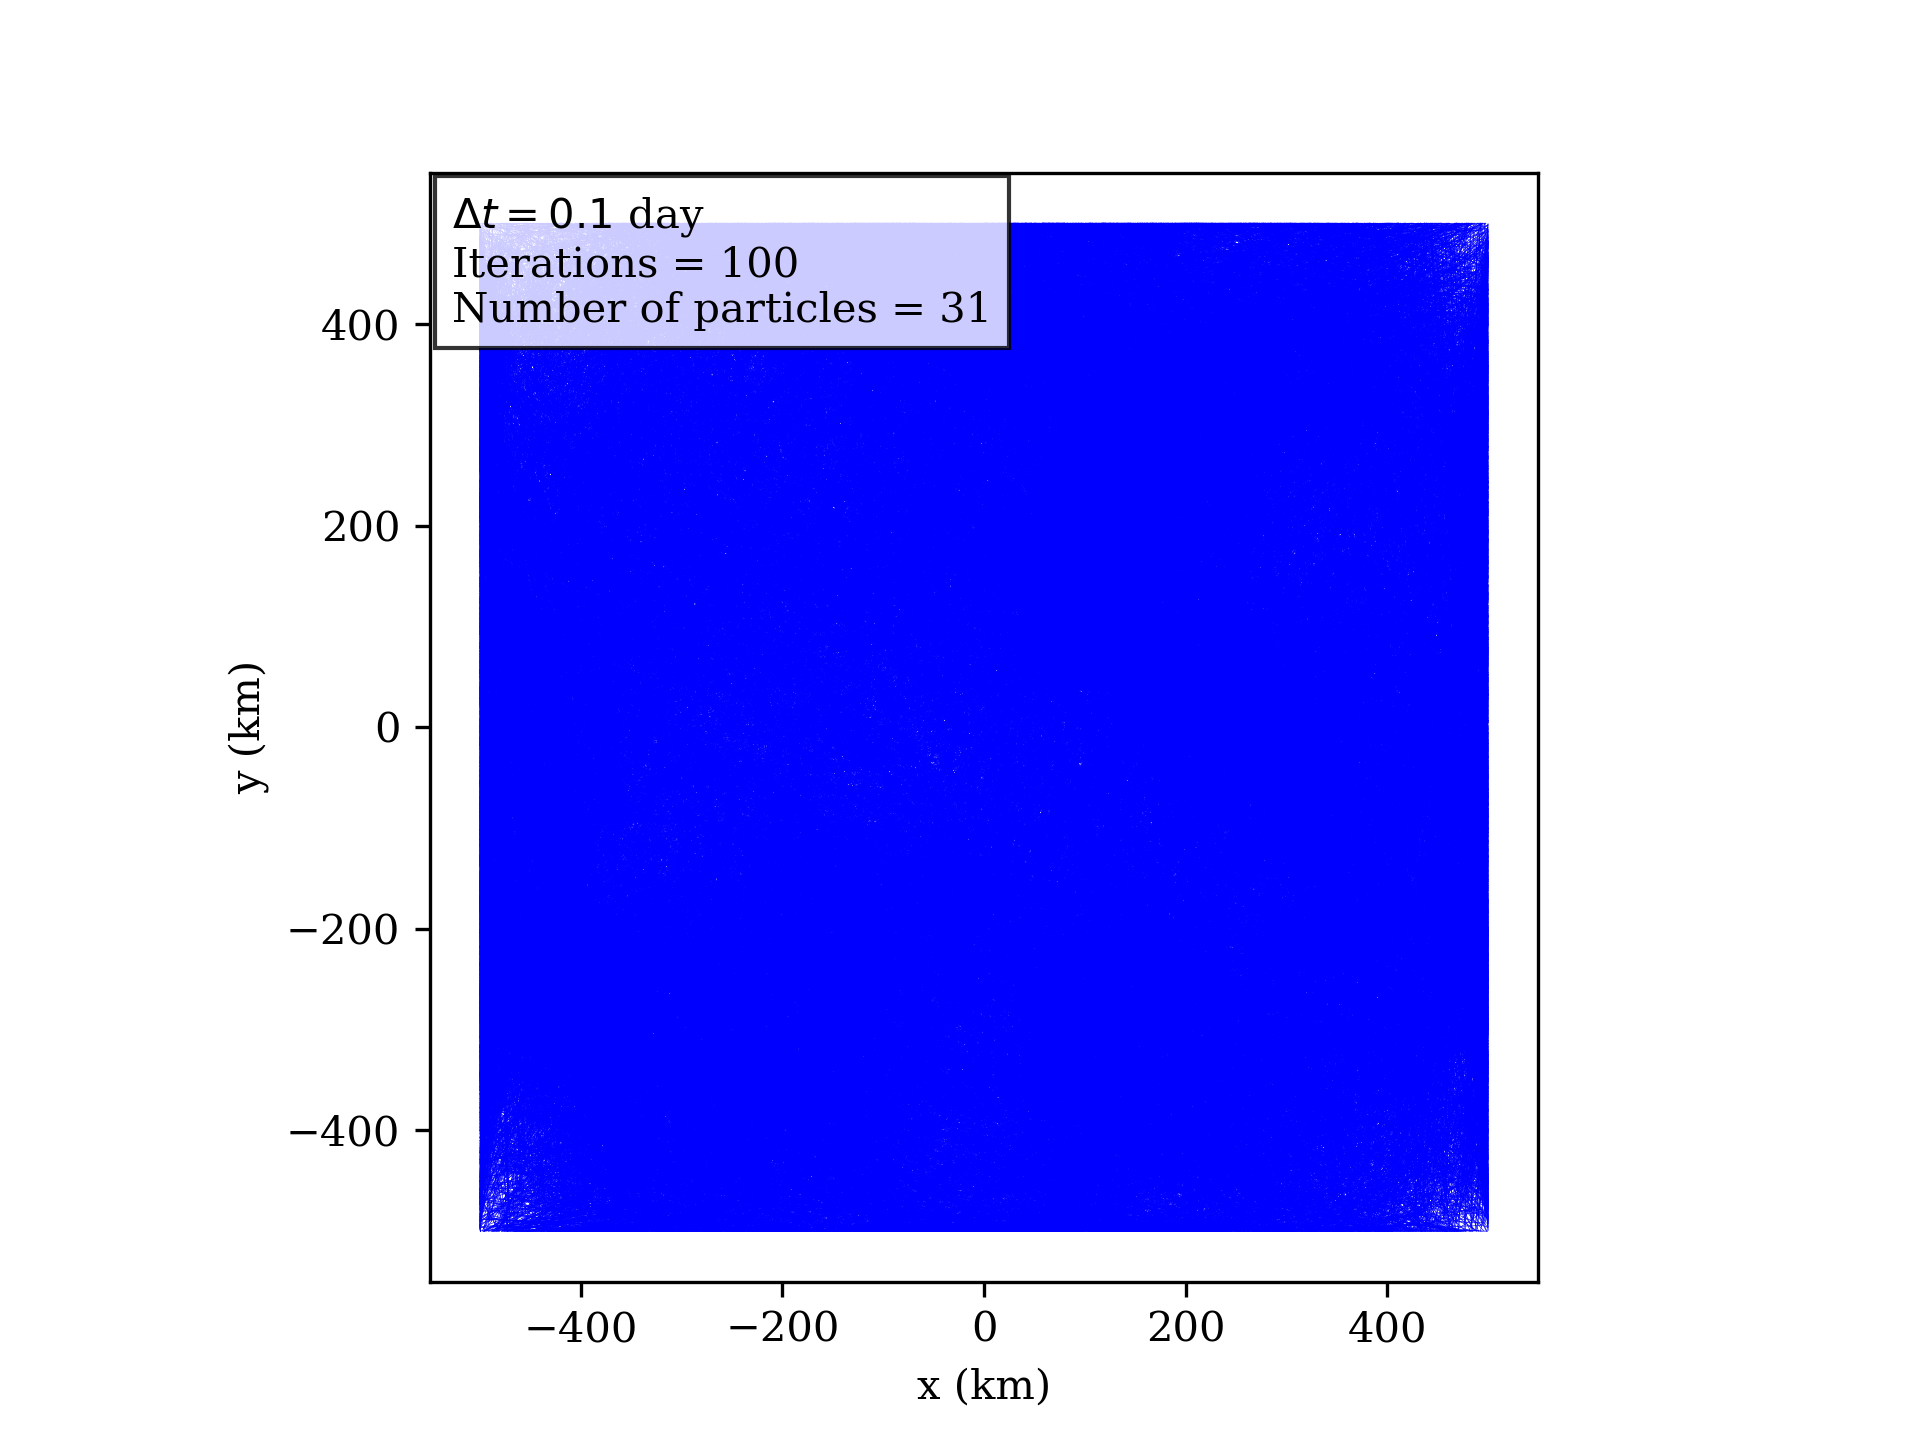
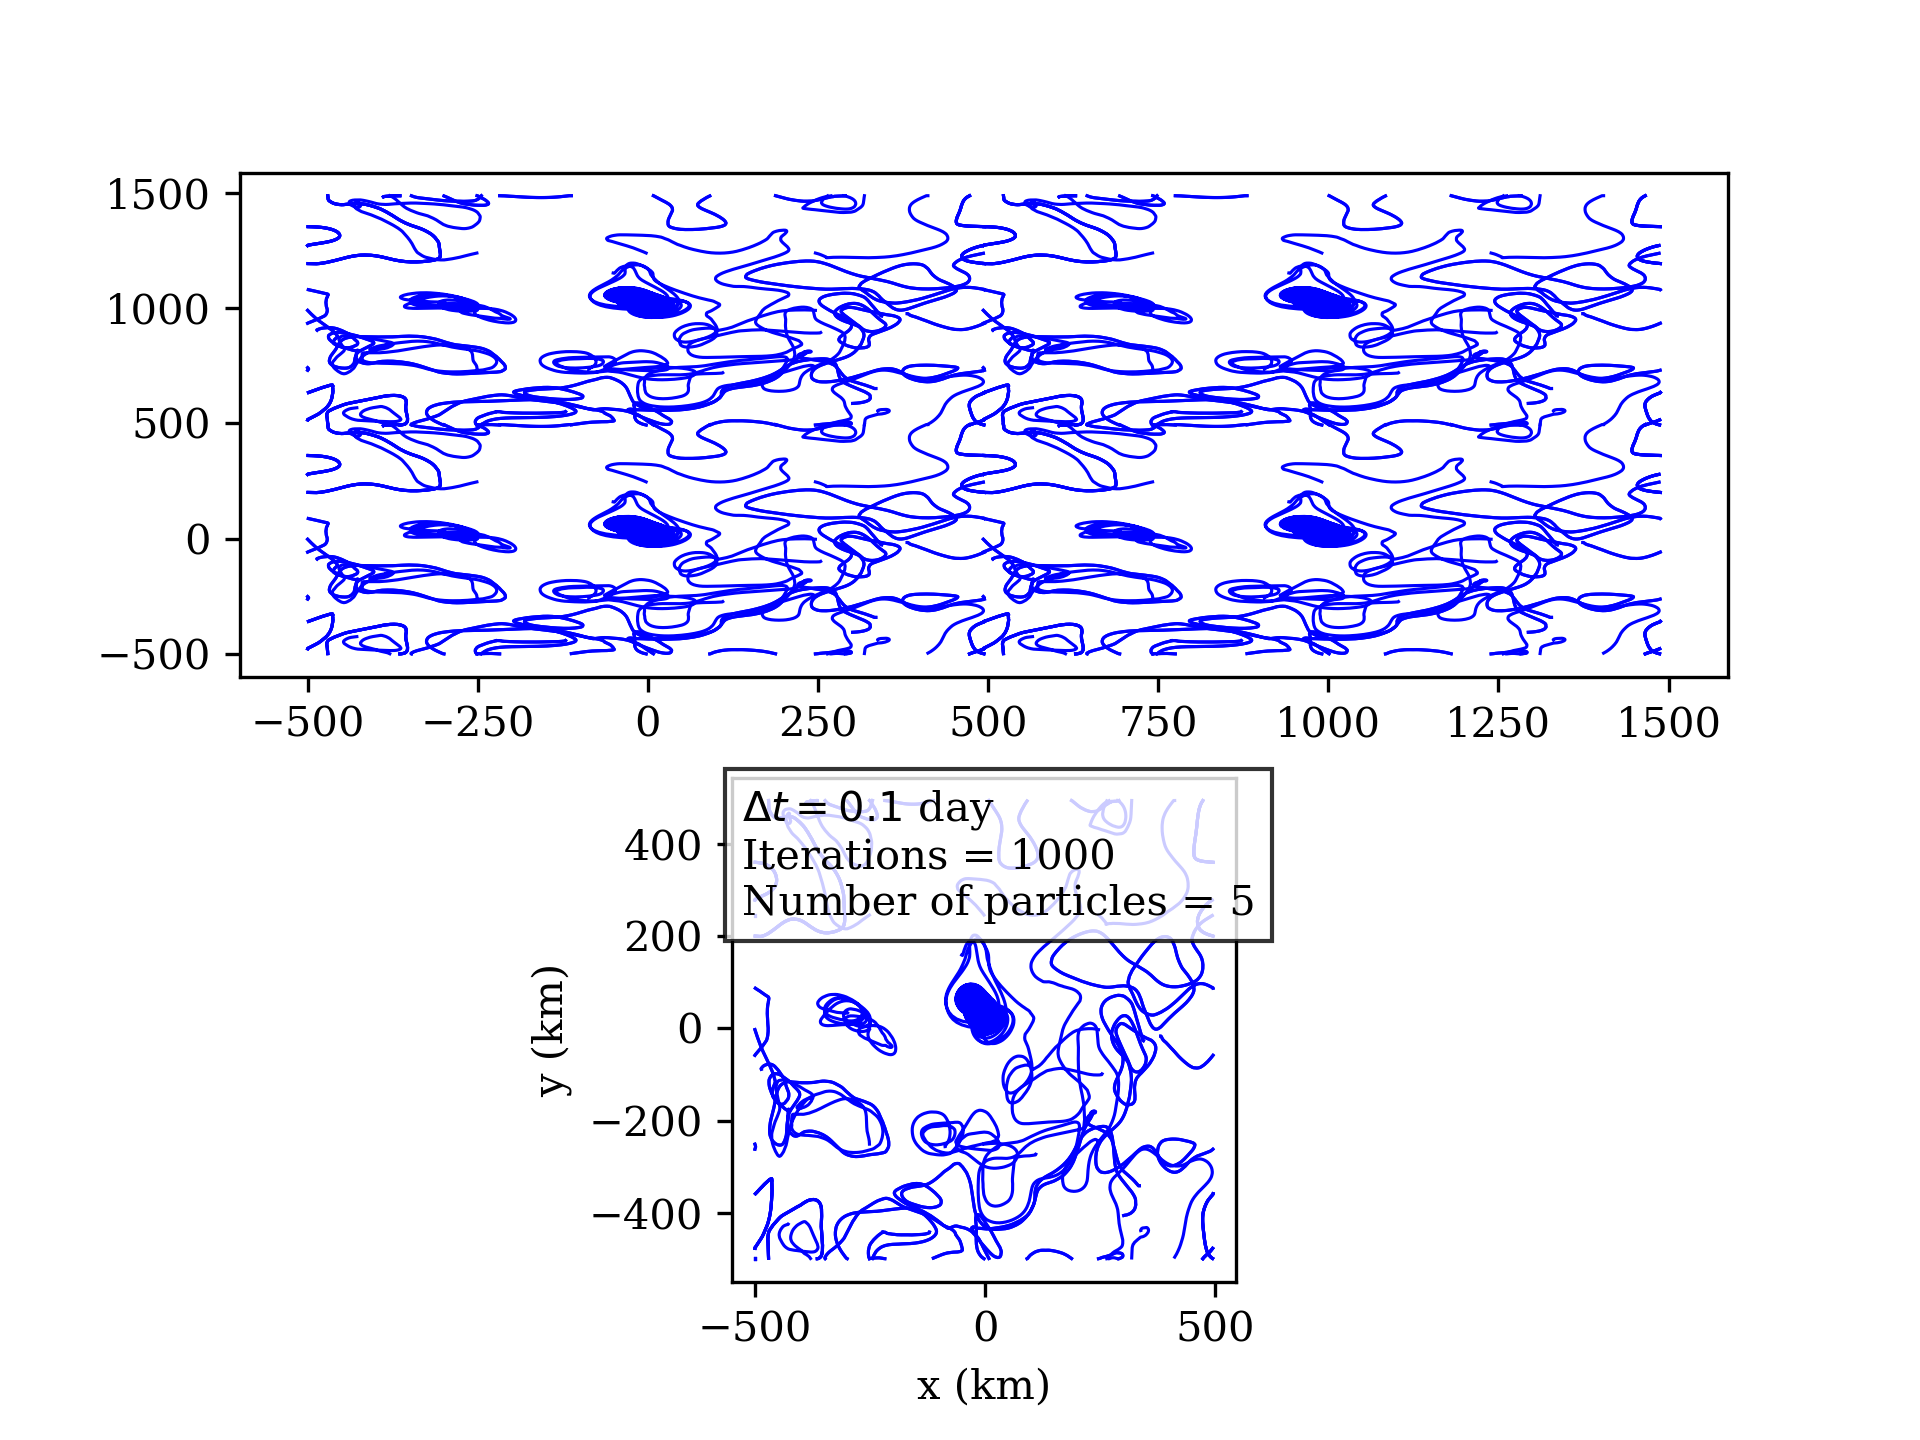
checkin

diff --git a/numerics/concentration.py b/numerics/concentration.py
@@ -11,8 +11,11 @@ import time
 from matplotlib.animation import FuncAnimation
 from propagation_with_potential_phi import solve_potential_from_material_derivative
 
+plt.rcParams['font.family'] = 'sans-serif'
+plt.rcParams['font.sans-serif'] = ['cmss10']
+plt.rcParams['axes.unicode_minus'] = False
 
-ITERS = 1000
+ITERS = 10000
 DT = 0.1
 ONLY_EPS = False
 METHOD = "linear"
@@ -25,13 +28,13 @@ t0 = 0.0
 SEED = np.random.randint(1, 10001)
 
 SCALE_FACTOR = 1
-GAMMA = 0.1
+GAMMA = 0.3
 
 SHOW_ONLY_CLUSTER = False
 CLUSTER_THRESHOLD = 2.0
 
 SAVE_GIF = False
-SAVE_MASS_PLOT = False
+SAVE_MASS_PLOT = True
 
 
 start = time.time()
@@ -43,7 +46,7 @@ phis = pstoch.vector_solve_stochastic_phi(
     days=int(ITERS * DT),
     size=(200, 200),
     dt=DT,
-    strength=0
+    strength=0.01
 )
 
 print("PHI time:", time.time() - start)
@@ -53,14 +56,15 @@ start = time.time()
 for j in range(ITERS + 1):
 
     if j == 0:
-        rX, rY, rx, ry, romega, rA_base, rdx, rdy, rq, rK, rL = invf.init_rossby()
+        rX, rY, rx, ry, romega, rA_base, rdx, rdy, rq, rK, rL = invf.init_rossby(intended_factor=3)
 
     phi_now = phis[j]
 
     X, Y, exes, whys, psi_real, u, v, q, A_mag, A, omega, phi, dX, dY, kay, ell = invf.generate_rossby_field_2(
         rX, rY, rx, ry, rq, romega, rA_base, rdx, rdy, rK, rL,
         t=j * DT,
-        given_phi=phi_now.astype(np.float64)
+        given_phi=phi_now.astype(np.float64),
+        emb=True
     )
 
     if j == 0:
@@ -81,22 +85,21 @@ for j in range(ITERS + 1):
             dy=dY,
             K=kay,
             L=ell,
-            Rd=100
+            Rd=100,
+            give_hat=True,
+            shift=True
         )
 
-        u_p = np.gradient(pot, dX, axis=1)
-        v_p = np.gradient(pot, dY, axis=0)
-
-        u = invf.debiggen(u, 3)
-        v = invf.debiggen(v, 3)
+        u_p_hat, v_p_hat = invf.embiggen(1j*kay*pot, 3), invf.embiggen(1j*ell*pot, 3)
+        # u_p = spn.zoom(u_p, 3.0, order=1, mode="grid-wrap")
+        # v_p = spn.zoom(v_p, 3.0, order=1, mode="grid-wrap")
+        u_p, v_p = np.fft.fftshift(np.fft.ifft2(u_p_hat)), np.fft.fftshift(np.fft.ifft2(v_p_hat))
         u = GAMMA * u_p + (1 - GAMMA) * u
         v = GAMMA * v_p + (1 - GAMMA) * v
-        # u = invf.embiggen(u, 3)
-        # v = invf.embiggen(v, 3)
 
     if u_arr is None:
-        u_arr = np.empty((ITERS + 1, u.shape[0], u.shape[1]))
-        v_arr = np.empty((ITERS + 1, v.shape[0], v.shape[1]))
+        u_arr = np.memmap("u_arr_mem.dat", mode="w+", dtype="float64", shape=(ITERS + 1, u.shape[0], u.shape[1]))
+        v_arr = np.memmap("v_arr_mem.dat", mode="w+", dtype="float64", shape=(ITERS + 1, v.shape[0], v.shape[1]))
 
     u_arr[j] = u
     v_arr[j] = v
@@ -138,7 +141,7 @@ elif DISTRIBUTE == "linspace":
 def interpolatify_u(idx):
     return spi.RegularGridInterpolator(
         (whys, exes),
-        spn.zoom(u[idx], 3.0, order=1, mode="grid-wrap"),
+        u_arr[idx],
         METHOD
     )
 
@@ -146,7 +149,7 @@ def interpolatify_u(idx):
 def interpolatify_v(idx):
     return spi.RegularGridInterpolator(
         (whys, exes),
-        spn.zoom(v[idx], 3.0, order=1, mode="grid-wrap"),
+        v_arr[idx],
         METHOD
     )
 
@@ -273,52 +276,54 @@ print("Final cluster particle fraction =", cluster_particle_fraction[-1])
 print("Final mean cluster C =", mean_cluster_C_hist[-1])
 print("Final max cluster C =", max_cluster_C_hist[-1])
 
+try:
+    if SAVE_MASS_PLOT:
+        fig_mass, ax_mass = plt.subplots(figsize=(6, 4))
 
-if SAVE_MASS_PLOT:
-    fig_mass, ax_mass = plt.subplots(figsize=(6, 4))
+        ax_mass.plot(time_hist, cluster_mass, label="Cluster mass")
+        ax_mass.plot(
+            time_hist,
+            cluster_particle_fraction,
+            label="Particle fraction",
+            linestyle="--"
+        )
 
-    ax_mass.plot(time_hist, cluster_mass, label="Cluster mass")
-    ax_mass.plot(
-        time_hist,
-        cluster_particle_fraction,
-        label="Particle fraction",
-        linestyle="--"
-    )
+        ax_mass.set_xlabel("time (day)")
+        ax_mass.set_ylabel("fraction")
+        ax_mass.set_title(
+            f"Cluster mass, gamma = {GAMMA}, threshold C > {CLUSTER_THRESHOLD}"
+        )
 
-    ax_mass.set_xlabel("time (day)")
-    ax_mass.set_ylabel("fraction")
-    ax_mass.set_title(
-        f"Cluster mass, gamma = {GAMMA}, threshold C > {CLUSTER_THRESHOLD}"
-    )
+        ax_mass.legend()
+        ax_mass.grid(True)
 
-    ax_mass.legend()
-    ax_mass.grid(True)
+        plt.savefig(
+            f"cluster_mass_gamma_{GAMMA}.png",
+            dpi=300,
+            bbox_inches="tight"
+        )
 
-    plt.savefig(
-        f"cluster_mass_gamma_{GAMMA}.png",
-        dpi=300,
-        bbox_inches="tight"
-    )
+        fig_c, ax_c = plt.subplots(figsize=(6, 4))
 
-    fig_c, ax_c = plt.subplots(figsize=(6, 4))
+        ax_c.plot(time_hist, mean_cluster_C_hist, label="Mean cluster C")
+        ax_c.plot(time_hist, max_cluster_C_hist, label="Max cluster C")
 
-    ax_c.plot(time_hist, mean_cluster_C_hist, label="Mean cluster C")
-    ax_c.plot(time_hist, max_cluster_C_hist, label="Max cluster C")
+        ax_c.set_xlabel("time (day)")
+        ax_c.set_ylabel("C")
+        ax_c.set_title(
+            f"Cluster concentration, gamma = {GAMMA}, threshold C > {CLUSTER_THRESHOLD}"
+        )
 
-    ax_c.set_xlabel("time (day)")
-    ax_c.set_ylabel("C")
-    ax_c.set_title(
-        f"Cluster concentration, gamma = {GAMMA}, threshold C > {CLUSTER_THRESHOLD}"
-    )
+        ax_c.legend()
+        ax_c.grid(True)
 
-    ax_c.legend()
-    ax_c.grid(True)
-
-    plt.savefig(
-        f"cluster_concentration_gamma_{GAMMA}.png",
-        dpi=300,
-        bbox_inches="tight"
-    )
+        plt.savefig(
+            f"cluster_concentration_gamma_{GAMMA}.png",
+            dpi=300,
+            bbox_inches="tight"
+        )
+except:
+    pass
 
 
 xmin, xmax = x_range
@@ -362,8 +367,8 @@ ax.set_ylabel("y (km)")
 
 title = ax.set_title("")
 
-ANIMATION_SECONDS = 10
-TOTAL_FRAMES = 300
+ANIMATION_SECONDS = 20
+TOTAL_FRAMES = 1000
 
 frame_indices = np.linspace(
     0,
@@ -401,7 +406,7 @@ def update(frame):
         )
     else:
         title.set_text(
-            f"All particles, gamma = {GAMMA}, t = {time_hist[frame]:.2f} days"
+            f"{time_hist[frame]:.2f} days"
         )
 
     return scat, title
@@ -410,7 +415,7 @@ def update(frame):
 ani = FuncAnimation(
     fig,
     update,
-    frames=frame_indices,
+    frames=frame_indices[::3],
     interval=interval,
     blit=False
 )
@@ -421,7 +426,9 @@ if SAVE_GIF:
     ani.save(
         f"concentration_{mode_name}_gamma_{GAMMA}.gif",
         writer="pillow",
-        fps=30
+        #fps=30,
+        dpi=300
     )
 
 plt.show()
+

diff --git a/numerics/propagation_with_potential_phi.py b/numerics/propagation_with_potential_phi.py
@@ -34,27 +34,41 @@ def laplacian(f, dx, dy):
     )
 
 
-def solve_potential_from_material_derivative(psi, psi_old, dx, dy, dt, K, L, Rd):
-    q = laplacian(psi, dx, dy) - psi / Rd**2
-    q_old = laplacian(psi_old, dx, dy) - psi_old / Rd**2
+def solve_potential_from_material_derivative(psi, psi_old, dx, dy, dt, K, L, Rd, give_hat=False, shift=False):
+    if shift:
+        psi = np.fft.ifftshift(psi)
+        psi_old = np.fft.ifftshift(psi_old)
 
-    q_t = (q - q_old) / dt
-    q_x = np.gradient(q, dx, axis=1)
-    q_y = np.gradient(q, dy, axis=0)
-
-    u_psi = -np.gradient(psi, dy, axis=0)
-    v_psi = np.gradient(psi, dx, axis=1)
-
-    rhs = q_t + u_psi * q_x + v_psi * q_y
+    # Use an exact FT method to compute
+    psi_hat = np.fft.fft2(psi)
+    psi_old_hat = np.fft.fft2(psi_old)
 
     k2 = K**2 + L**2
     k2[0, 0] = 1e-10
 
+    # Note laplacian operator becomes ksquared + lsquared i.e. k2
+    q_hat = -(k2 + 1/Rd**2) * psi_hat
+    q_old_hat = -(k2 + 1/Rd**2) * psi_old_hat
+    q = np.fft.ifft2(q_hat).real
+    q_old = np.fft.ifft2(q_old_hat).real
+
+    q_t = (q - q_old) / dt
+    q_x = np.fft.ifft2(1j*K*q_hat).real
+    q_y = np.fft.ifft2(1j*L*q_hat).real
+
+    u_psi = np.fft.ifft2(-1j * L * psi_hat).real
+    v_psi = np.fft.ifft2(1j * K * psi_hat).real
+
+    rhs = q_t + u_psi * q_x + v_psi * q_y
+
     potential_hat = -np.fft.fft2(rhs) / k2
     potential_hat[0, 0] = 0
 
-    return np.fft.ifft2(potential_hat).real
-
+    if not give_hat:
+        if not shift:
+            return np.fft.ifft2(potential_hat).real
+        return np.fft.fftshift(np.fft.ifft2(potential_hat).real)
+    return potential_hat
 
 def animate_rossby_potential_psi_velocity(
     seed=123,

diff --git a/numerics/Inverse_fourier.py b/numerics/Inverse_fourier.py
@@ -34,7 +34,7 @@ def init_rossby(
     Lx=1e3,
     Ly=1e3,
     Rd=20,
-    intended_factor=3
+    intended_factor=1
 ):
     x = np.linspace(-Lx / 2, Lx / 2, Nx * intended_factor, endpoint=False)
     y = np.linspace(-Ly / 2, Ly / 2, Ny * intended_factor, endpoint=False)
@@ -70,7 +70,8 @@ def generate_rossby_field_2(
     Nx=200,
     Ny=200,
     given_phi=None,
-    target_speed=20.0   # km/day, about 0.23 m/s
+    target_speed=20.0,   # km/day, about 0.23 m/s
+    emb=False
 ):
     if given_phi is None:
         phi = np.random.uniform(0, 2 * np.pi, size=(Ny, Nx))
@@ -93,9 +94,9 @@ def generate_rossby_field_2(
     # In order to achieve less numerical interference
     # when taking the DFT/inverse DFT, we will pad
     # the array with zeroes before doing so.
-
-    u_hat = embiggen(u_hat, 3)
-    v_hat = embiggen(v_hat, 3)
+    if emb:
+        u_hat = embiggen(u_hat, 3)
+        v_hat = embiggen(v_hat, 3)
     # psi_base = np.fft.ifft2(psi_hat_base).real
 
     # u_base = -np.gradient(psi_base, dy, axis=0)

diff --git a/numerics/trajectories_with_time_evolution.py b/numerics/trajectories_with_time_evolution.py
@@ -20,15 +20,15 @@ DT = 0.1 #day
 ONLY_EPS = False
 METHOD = "linear"
 DISTRIBUTE = "linspace"
-Nx=20
-Ny=20
+Nx=5
+Ny=5
 Nplots=2
 t0 = 0.0
 PLOTTING = "2D"
 DOTS = False
 SEED = np.random.randint(1, 10001)
 SCALE_FACTOR = 1
-GAMMA = 0
+GAMMA = 0.1
 
 # Now in order to interpolate u and v, we must incorporate time,
 # thus we construct arrays of u and v for each time we are interested

diff --git a/numerics/cluster trajectors.py b/numerics/cluster trajectors.py
@@ -189,7 +189,7 @@ phis = pstoch.vector_solve_stochastic_phi(
     days=int(ITERS * DT),
     size=(200, 200),
     dt=DT,
-    strength=0
+    strength=0.01
 )
 
 print("PHI time:", time.time() - start)
